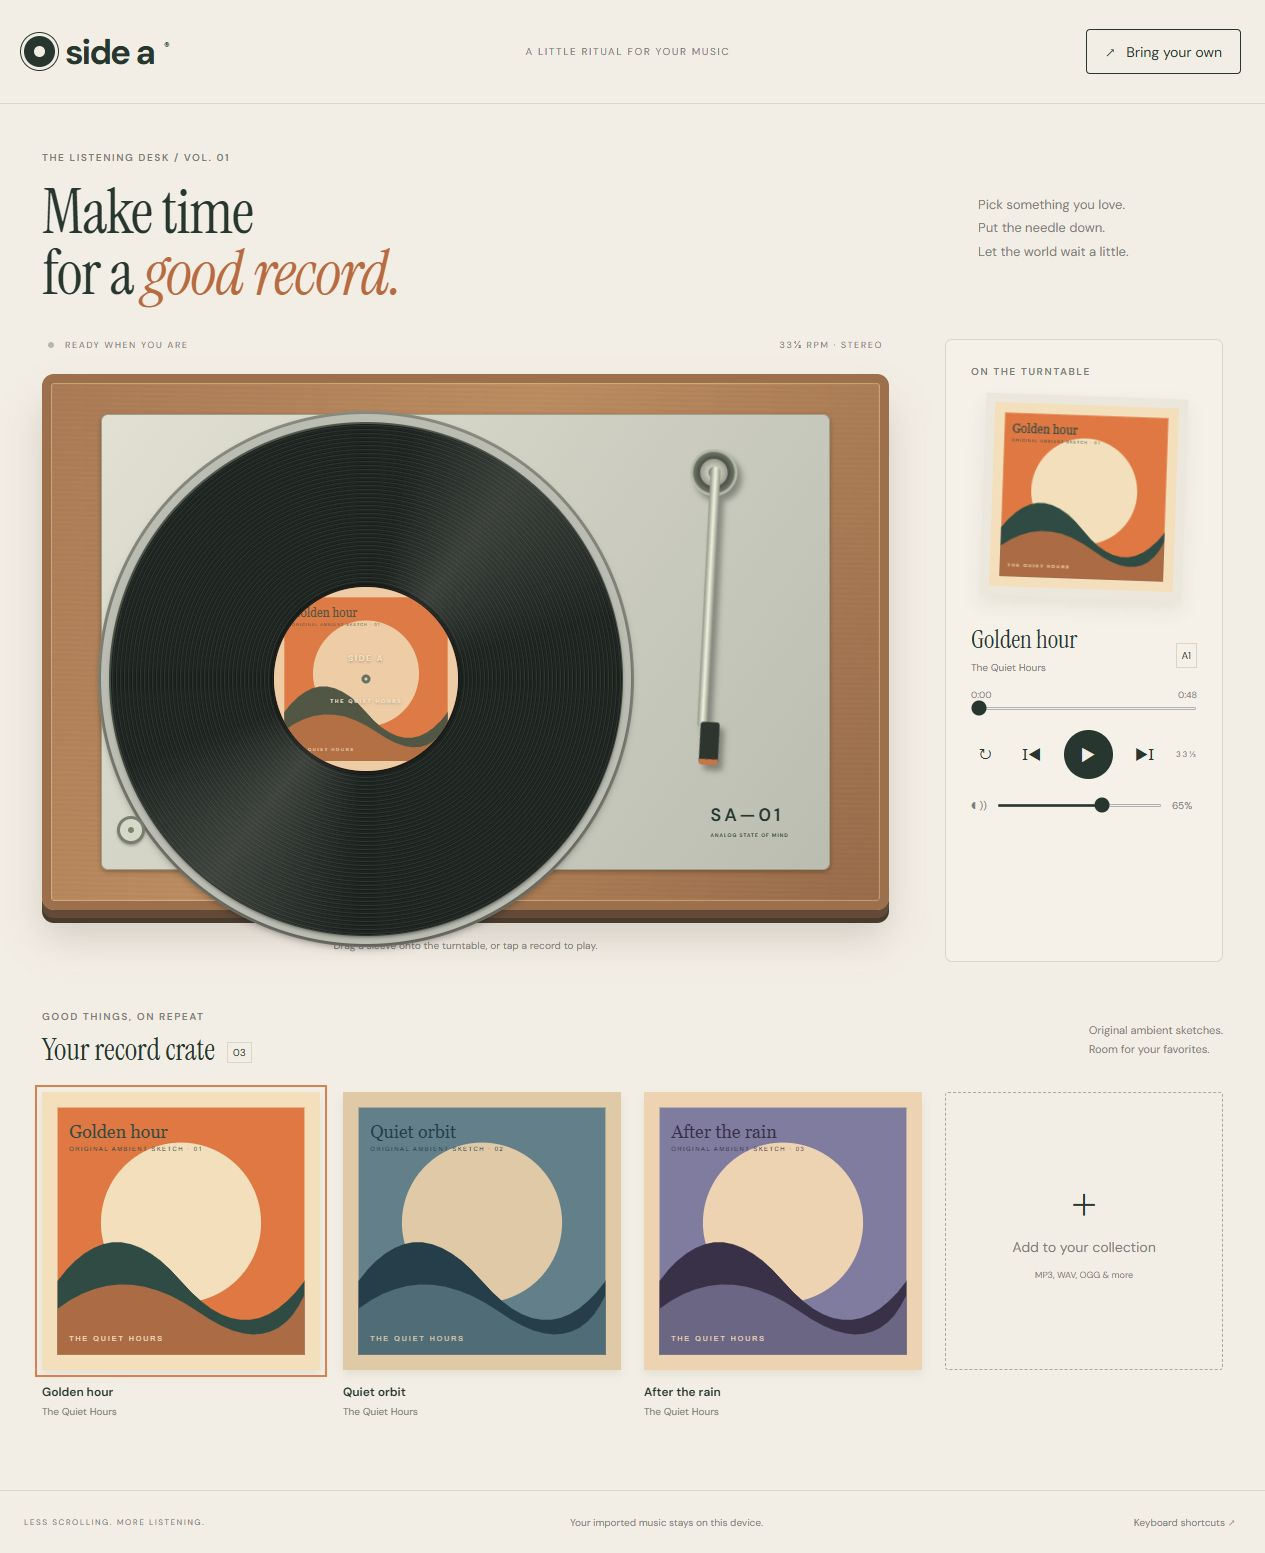
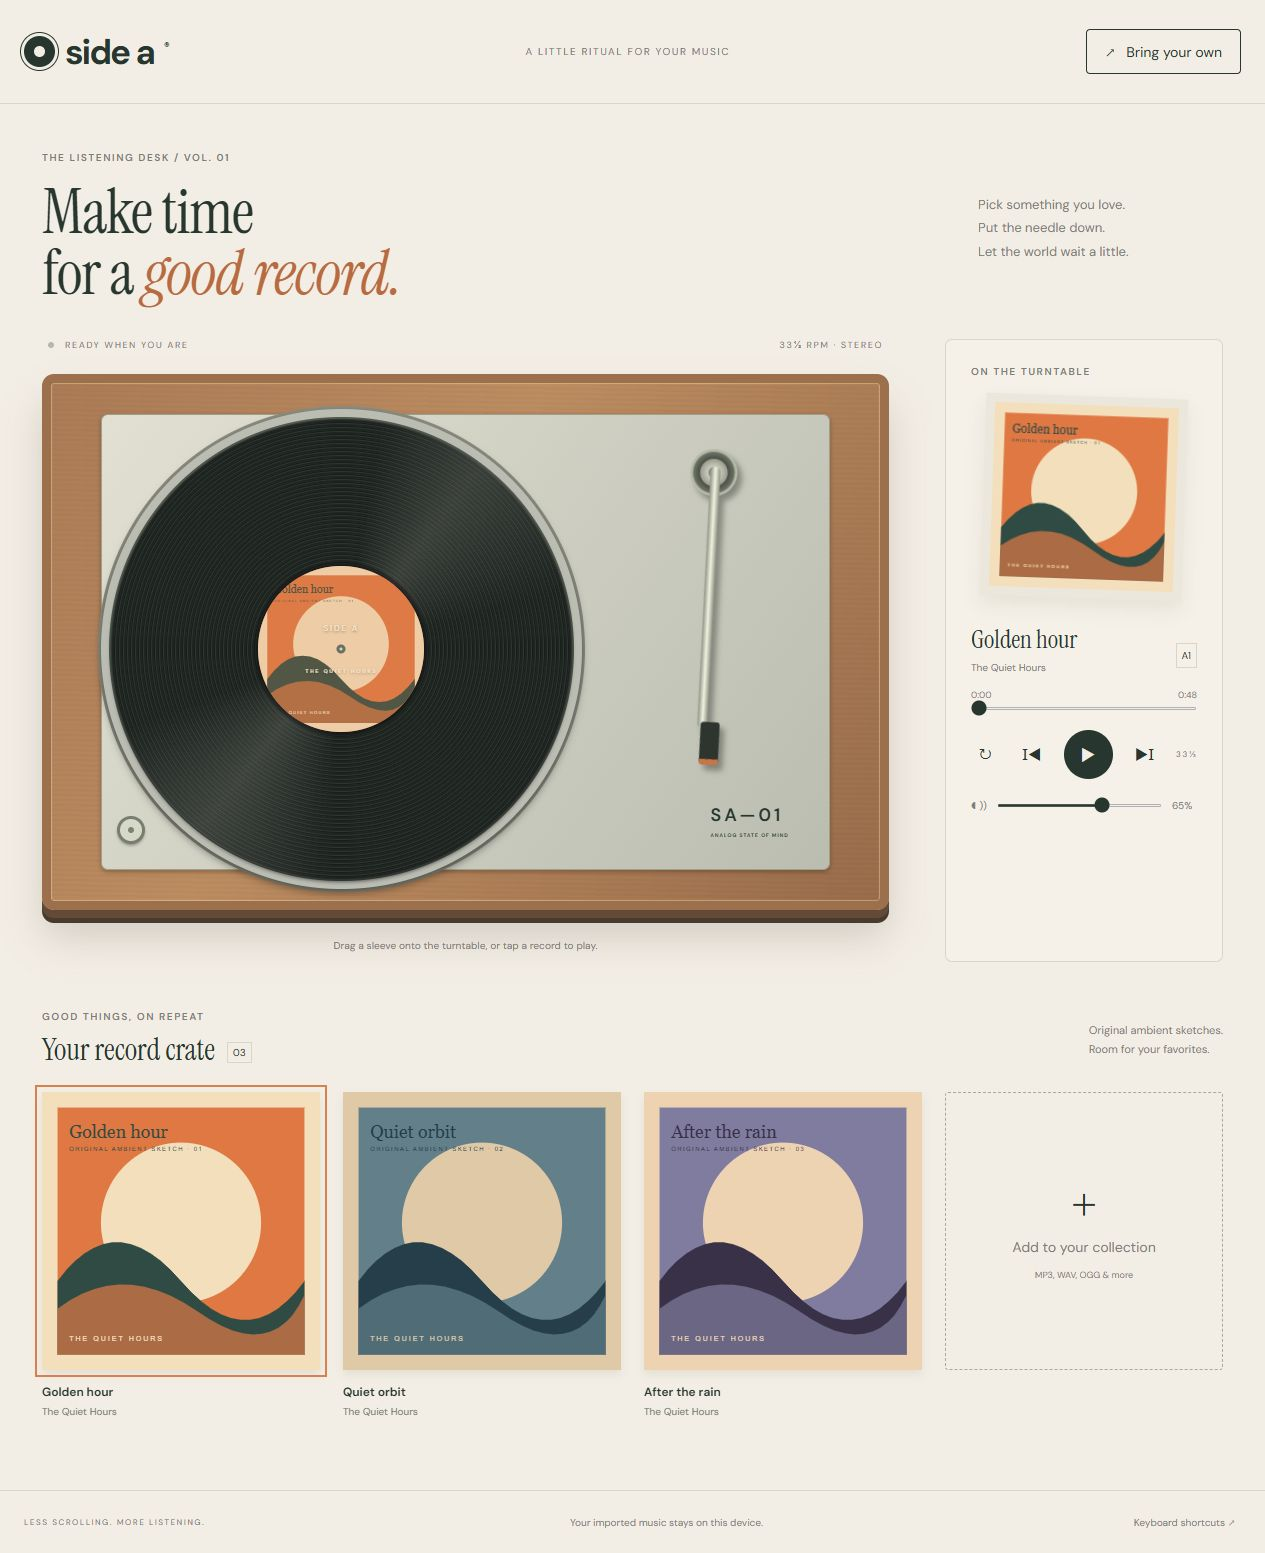
Keep the platter inside the turntable at phone widths

Changed region(s): [[0.0617, 0.2473, 0.4933, 0.6182], [0.185, 0.34, 0.37, 0.4945]]

diff --git a/style.css b/style.css
@@ -1,2 +1,2 @@
 @import url('https://fonts.googleapis.com/css2?family=DM+Sans:wght@400;500;600;700&family=Instrument+Serif:ital@0;1&display=swap');
-:root{--paper:#f3eee5;--ink:#27362e;--muted:#7b8076;--accent:#d57d48;--line:#d8d6c9}*{box-sizing:border-box}body{margin:0;background:var(--paper);color:var(--ink);font:14px 'DM Sans',sans-serif}button,input{font:inherit}button{cursor:pointer}button:focus-visible,a:focus-visible,input:focus-visible{outline:3px solid var(--accent);outline-offset:5px}button{color:inherit}header,main,footer{max-width:1320px;margin:auto}header{height:104px;display:flex;align-items:center;justify-content:space-between;border-bottom:1px solid var(--line);padding:0 24px}.brand{font-size:35px;letter-spacing:-2px;color:var(--ink);text-decoration:none;font-weight:700;display:flex;gap:10px;align-items:center}.brand-dot{font-size:11px;align-self:flex-start;margin-top:10px;letter-spacing:0}.brand-record{height:31px;width:31px;border:10px solid var(--ink);border-radius:50%;outline:1px solid var(--ink);outline-offset:3px}.header-note,.eyebrow,.surface-caption,footer,.hint,.deck-brand small,.speed-label{font-size:10px;letter-spacing:1.6px}.header-note{color:var(--muted)}.button{padding:12px 18px;border:1px solid var(--ink);background:transparent;border-radius:4px}.button:hover{background:var(--ink);color:var(--paper)}main{padding:0 42px}.intro{display:flex;justify-content:space-between;align-items:center;margin:47px 0 34px}.eyebrow{font-weight:600;margin:0 0 18px;color:var(--muted)}h1{font:62px/.99 'Instrument Serif',Georgia,serif;letter-spacing:-1px;margin:0}h1 em{font-weight:400;color:#b86b40}.intro>p{line-height:1.8;font-size:13px;color:var(--muted);margin-right:8%}.listening-layout{display:grid;grid-template-columns:minmax(0,1fr) 278px;gap:56px}.turntable-area{align-self:center;min-width:0}.surface-caption{display:flex;justify-content:space-between;margin:0 6px 23px;color:var(--muted);font-size:9px}.status-light{display:inline-block;width:6px;height:6px;border-radius:50%;background:#b4b9a9;margin-right:7px}body.playing .status-light{background:#d17d4d;box-shadow:0 0 8px #d17d4d}.turntable{position:relative;aspect-ratio:1.58;background:repeating-linear-gradient(1deg,#9d63420b 0 2px,#f7be7608 3px 5px),linear-gradient(125deg,#a87955,#ba8b60 42%,#976a49);border:9px solid #9d704d;border-radius:12px;box-shadow:0 8px 0 #634a37,0 13px 0 #463b2e,0 28px 40px #42392a2e,inset 0 0 1px 1px #f9d9a177}.turntable:before{content:'';position:absolute;inset:6%;background:linear-gradient(125deg,#e1e0d2,#babdb0);border-radius:7px;box-shadow:0 2px 5px #0004;border:1px solid #a09e8c}.platter{position:absolute;width:64%;aspect-ratio:1;top:6%;left:6%;border:8px solid #bbbdb3;border-radius:50%;background:#545a50;box-shadow:0 4px 8px #0006,0 0 0 3px #8b8d81}.record{position:absolute;inset:2px;border-radius:50%;background:repeating-radial-gradient(circle at center,#1d2421 0 1px,#30352f 2px,#171e1a 3px,#252c27 4px);animation:spin 4s linear infinite;animation-play-state:paused;box-shadow:0 2px 4px #0008}.record-shine{position:absolute;inset:0;border-radius:50%;background:conic-gradient(from 10deg,transparent,#f3eee522 27deg,transparent 65deg,transparent 175deg,#f3eee526 208deg,transparent 240deg)}body.playing .record{animation-play-state:running}.record-label{position:absolute;inset:32%;border-radius:50%;overflow:hidden;background:var(--accent);display:grid;place-content:center;text-align:center;box-shadow:0 0 0 4px #1117}.record-label img{position:absolute;inset:0;width:100%;height:100%;object-fit:cover;opacity:.8}.record-label>span,.record-label small{position:relative;z-index:1;color:#f8e8cb;text-shadow:0 1px 3px #0008;font-size:8px;letter-spacing:2px}.record-label small{font-size:5px;margin-top:35px}.spindle{position:absolute;top:50%;left:50%;width:9px;height:9px;border-radius:50%;background:#d4d3bf;border:3px solid #687062;transform:translate(-50%,-50%);z-index:2}.tonearm{position:absolute;top:14%;right:13%;width:14%;height:64%;background:none;border:0;padding:0;z-index:3;transform-origin:51% 7%;transform:rotate(-6deg);transition:transform 1s ease;filter:drop-shadow(4px 6px 3px #0005)}body.playing .tonearm{transform:rotate(27deg)}.pivot{position:absolute;width:47px;height:47px;background:radial-gradient(circle,#888d80 15%,#c9ccbd 18%,#9c9d90 40%,#4c5147 43%,#6a7063 60%,#b6b9a8 65%);top:-6px;left:calc(50% - 23.5px);border-radius:50%}.arm{position:absolute;left:48%;top:12px;width:10px;height:79%;background:linear-gradient(90deg,#8d9385,#f2f1df 50%,#8d9385);border-radius:8px;transform:rotate(9deg);transform-origin:top}.cartridge{position:absolute;bottom:7%;left:14%;height:43px;width:19px;transform:rotate(9deg);background:#2e352e;border-bottom:6px solid #c77545;border-radius:3px}.deck-brand{position:absolute;bottom:12%;right:11%;font-size:18px;font-weight:600;letter-spacing:3px}.deck-brand small{display:block;font-size:5px;letter-spacing:1px;margin-top:5px}.power{position:absolute;bottom:11%;left:8%;width:28px;height:28px;border-radius:50%;border:3px solid #777e70;background:#d6d8c8;box-shadow:0 2px 3px #0005}.power span{position:absolute;inset:8px;background:#79836e;border-radius:50%}body.playing .power span{background:var(--accent)}.hint{text-align:center;letter-spacing:.1px;margin-top:29px;color:var(--muted)}.turntable.drag-over{outline:3px dashed var(--accent);outline-offset:12px}.now-playing{padding:25px;border:1px solid var(--line);border-radius:7px;background:#faf7f040}.sleeve-wrap{padding:9px;background:#ece7dc;box-shadow:0 9px 18px #4a442215;transform:rotate(2deg);margin:8px 12px 25px}.sleeve-wrap img{width:100%;display:block}.track-heading{display:flex;justify-content:space-between;align-items:center}.track-heading h2{font:25px 'Instrument Serif',Georgia,serif;margin:0;overflow-wrap:anywhere}.track-heading p{color:var(--muted);font-size:10px;margin:5px 0 15px}.side-badge{border:1px solid var(--line);padding:5px;font-size:10px}.seek-labels{display:flex;justify-content:space-between;font-size:9px;color:var(--muted);margin-bottom:6px}input[type=range]{accent-color:var(--ink);height:3px;width:100%;cursor:pointer;display:block;margin:5px 0 15px}.transport{display:flex;align-items:center;justify-content:space-between;margin:20px 0}.icon-button,.text-button{border:0;background:none}.icon-button{padding:8px;font-size:16px}.icon-button[aria-pressed=true]{color:var(--accent)}.play{width:49px;height:49px;background:var(--ink);color:var(--paper);border:0;border-radius:50%;font-size:17px;transition:transform .2s}.play:hover{transform:scale(1.07)}.speed-label{font-size:8px;color:var(--muted)}.volume-row{display:flex;align-items:center;gap:10px;color:var(--muted);font-size:10px}.volume-row input{margin:0}.volume-row output{min-width:25px}.section-heading{display:flex;justify-content:space-between;align-items:center;margin:48px 0 23px}.section-heading .eyebrow{margin-bottom:7px}.section-heading h2{font:30px 'Instrument Serif',Georgia,serif;margin:0}.section-heading h2 span{font:10px 'DM Sans';border:1px solid var(--line);padding:3px 5px;vertical-align:middle;margin-left:12px}.section-heading>p{font-size:11px;color:var(--muted);line-height:1.7}.crate{display:grid;grid-template-columns:repeat(4,minmax(0,1fr));gap:23px}.album{position:relative;border:0;background:none;text-align:left;padding:0;min-width:0}.album-art{width:100%;aspect-ratio:1;display:block;box-shadow:0 5px 9px #323b2315;transition:transform .3s}.album:hover .album-art{transform:translateY(-8px) rotate(-2deg)}.album.selected .album-art{outline:2px solid var(--accent);outline-offset:5px}.album-name{display:block;margin-top:14px;font-size:12px;font-weight:600;overflow-wrap:anywhere}.album-meta{display:block;color:var(--muted);font-size:10px;margin-top:5px}.album .playing-tag{position:absolute;top:12px;left:12px;background:var(--paper);font-size:8px;padding:7px 10px;letter-spacing:1px}.add-record{aspect-ratio:1;display:flex;align-items:center;justify-content:center;flex-direction:column;border:1px dashed #a5ac9b;border-radius:3px;background:none;color:var(--muted);gap:13px;align-self:start}.add-record>span{font-size:30px;color:var(--ink)}.add-record small{font-size:9px}.notice{color:#a7492f;min-height:28px;font-size:12px;margin-top:16px}footer{margin-top:28px;padding:23px 24px;display:flex;align-items:center;justify-content:space-between;border-top:1px solid var(--line);color:var(--muted);font-size:8px}footer span:nth-child(2){letter-spacing:0;font-size:10px}.text-button{color:var(--muted);font-size:10px}dialog{border:1px solid var(--line);border-radius:8px;background:var(--paper);color:var(--ink);padding:32px;max-width:440px}dialog::backdrop{background:#17221988}dialog h2{font:36px 'Instrument Serif',Georgia,serif}dialog p{line-height:1.7}kbd{border:1px solid var(--line);padding:3px 7px}@keyframes spin{to{transform:rotate(360deg)}}@media(min-width:1500px){header,main,footer{max-width:1400px}.intro{margin-top:60px}.listening-layout{gap:80px;grid-template-columns:minmax(0,1fr) 300px}}@media(max-width:850px){header{height:82px;margin:0 20px;padding:0}.header-note{display:none}main{padding:0 25px}.intro{margin-top:32px}h1{font-size:50px}.listening-layout{gap:25px;grid-template-columns:minmax(0,1fr) 235px}.now-playing{padding:17px}.intro>p{margin-right:0}.surface-caption{font-size:7px}.crate{gap:15px}.pivot{width:36px;height:36px;left:calc(50% - 18px)}.cartridge{height:27px}.deck-brand{font-size:12px}.deck-brand small{font-size:4px}footer{gap:10px}}@media(max-width:620px){h1{font-size:47px}.intro>p{display:none}.listening-layout{display:flex;flex-direction:column;gap:20px}.turntable-area{width:100%}.now-playing{width:100%;display:block;position:relative;padding-left:125px;min-height:190px}.now-playing>.eyebrow{font-size:8px;margin-bottom:10px}.sleeve-wrap{position:absolute;left:15px;top:44px;width:85px;margin:0;padding:4px}.transport{margin:10px 0}.volume-row{margin-top:10px}.crate{grid-template-columns:repeat(2,minmax(0,1fr));gap:22px}.section-heading{margin-top:33px}.section-heading>p{display:none}footer{flex-wrap:wrap;line-height:1.5}footer>span:first-child{display:none}.hint{font-size:10px}.surface-caption{font-size:8px}.turntable{border-width:6px}.platter{border-width:5px}.deck-brand{font-size:13px}.cartridge{bottom:9%}.button{font-size:11px}}@media(prefers-reduced-motion:reduce){*,*:before,*:after{animation:none!important;transition:none!important;scroll-behavior:auto!important}}
+:root{--paper:#f3eee5;--ink:#27362e;--muted:#7b8076;--accent:#d57d48;--line:#d8d6c9}*{box-sizing:border-box}body{margin:0;background:var(--paper);color:var(--ink);font:14px 'DM Sans',sans-serif}button,input{font:inherit}button{cursor:pointer}button:focus-visible,a:focus-visible,input:focus-visible{outline:3px solid var(--accent);outline-offset:5px}button{color:inherit}header,main,footer{max-width:1320px;margin:auto}header{height:104px;display:flex;align-items:center;justify-content:space-between;border-bottom:1px solid var(--line);padding:0 24px}.brand{font-size:35px;letter-spacing:-2px;color:var(--ink);text-decoration:none;font-weight:700;display:flex;gap:10px;align-items:center}.brand-dot{font-size:11px;align-self:flex-start;margin-top:10px;letter-spacing:0}.brand-record{height:31px;width:31px;border:10px solid var(--ink);border-radius:50%;outline:1px solid var(--ink);outline-offset:3px}.header-note,.eyebrow,.surface-caption,footer,.hint,.deck-brand small,.speed-label{font-size:10px;letter-spacing:1.6px}.header-note{color:var(--muted)}.button{padding:12px 18px;border:1px solid var(--ink);background:transparent;border-radius:4px}.button:hover{background:var(--ink);color:var(--paper)}main{padding:0 42px}.intro{display:flex;justify-content:space-between;align-items:center;margin:47px 0 34px}.eyebrow{font-weight:600;margin:0 0 18px;color:var(--muted)}h1{font:62px/.99 'Instrument Serif',Georgia,serif;letter-spacing:-1px;margin:0}h1 em{font-weight:400;color:#b86b40}.intro>p{line-height:1.8;font-size:13px;color:var(--muted);margin-right:8%}.listening-layout{display:grid;grid-template-columns:minmax(0,1fr) 278px;gap:56px}.turntable-area{align-self:center;min-width:0}.surface-caption{display:flex;justify-content:space-between;margin:0 6px 23px;color:var(--muted);font-size:9px}.status-light{display:inline-block;width:6px;height:6px;border-radius:50%;background:#b4b9a9;margin-right:7px}body.playing .status-light{background:#d17d4d;box-shadow:0 0 8px #d17d4d}.turntable{position:relative;aspect-ratio:1.58;background:repeating-linear-gradient(1deg,#9d63420b 0 2px,#f7be7608 3px 5px),linear-gradient(125deg,#a87955,#ba8b60 42%,#976a49);border:9px solid #9d704d;border-radius:12px;box-shadow:0 8px 0 #634a37,0 13px 0 #463b2e,0 28px 40px #42392a2e,inset 0 0 1px 1px #f9d9a177}.turntable:before{content:'';position:absolute;inset:6%;background:linear-gradient(125deg,#e1e0d2,#babdb0);border-radius:7px;box-shadow:0 2px 5px #0004;border:1px solid #a09e8c}.platter{position:absolute;width:58%;aspect-ratio:1;top:5%;left:6%;border:8px solid #bbbdb3;border-radius:50%;background:#545a50;box-shadow:0 4px 8px #0006,0 0 0 3px #8b8d81}.record{position:absolute;inset:2px;border-radius:50%;background:repeating-radial-gradient(circle at center,#1d2421 0 1px,#30352f 2px,#171e1a 3px,#252c27 4px);animation:spin 4s linear infinite;animation-play-state:paused;box-shadow:0 2px 4px #0008}.record-shine{position:absolute;inset:0;border-radius:50%;background:conic-gradient(from 10deg,transparent,#f3eee522 27deg,transparent 65deg,transparent 175deg,#f3eee526 208deg,transparent 240deg)}body.playing .record{animation-play-state:running}.record-label{position:absolute;inset:32%;border-radius:50%;overflow:hidden;background:var(--accent);display:grid;place-content:center;text-align:center;box-shadow:0 0 0 4px #1117}.record-label img{position:absolute;inset:0;width:100%;height:100%;object-fit:cover;opacity:.8}.record-label>span,.record-label small{position:relative;z-index:1;color:#f8e8cb;text-shadow:0 1px 3px #0008;font-size:8px;letter-spacing:2px}.record-label small{font-size:5px;margin-top:35px}.spindle{position:absolute;top:50%;left:50%;width:9px;height:9px;border-radius:50%;background:#d4d3bf;border:3px solid #687062;transform:translate(-50%,-50%);z-index:2}.tonearm{position:absolute;top:14%;right:13%;width:14%;height:64%;background:none;border:0;padding:0;z-index:3;transform-origin:51% 7%;transform:rotate(-6deg);transition:transform 1s ease;filter:drop-shadow(4px 6px 3px #0005)}body.playing .tonearm{transform:rotate(27deg)}.pivot{position:absolute;width:47px;height:47px;background:radial-gradient(circle,#888d80 15%,#c9ccbd 18%,#9c9d90 40%,#4c5147 43%,#6a7063 60%,#b6b9a8 65%);top:-6px;left:calc(50% - 23.5px);border-radius:50%}.arm{position:absolute;left:48%;top:12px;width:10px;height:79%;background:linear-gradient(90deg,#8d9385,#f2f1df 50%,#8d9385);border-radius:8px;transform:rotate(9deg);transform-origin:top}.cartridge{position:absolute;bottom:7%;left:14%;height:43px;width:19px;transform:rotate(9deg);background:#2e352e;border-bottom:6px solid #c77545;border-radius:3px}.deck-brand{position:absolute;bottom:12%;right:11%;font-size:18px;font-weight:600;letter-spacing:3px}.deck-brand small{display:block;font-size:5px;letter-spacing:1px;margin-top:5px}.power{position:absolute;bottom:11%;left:8%;width:28px;height:28px;border-radius:50%;border:3px solid #777e70;background:#d6d8c8;box-shadow:0 2px 3px #0005}.power span{position:absolute;inset:8px;background:#79836e;border-radius:50%}body.playing .power span{background:var(--accent)}.hint{text-align:center;letter-spacing:.1px;margin-top:29px;color:var(--muted)}.turntable.drag-over{outline:3px dashed var(--accent);outline-offset:12px}.now-playing{padding:25px;border:1px solid var(--line);border-radius:7px;background:#faf7f040}.sleeve-wrap{padding:9px;background:#ece7dc;box-shadow:0 9px 18px #4a442215;transform:rotate(2deg);margin:8px 12px 25px}.sleeve-wrap img{width:100%;display:block}.track-heading{display:flex;justify-content:space-between;align-items:center}.track-heading h2{font:25px 'Instrument Serif',Georgia,serif;margin:0;overflow-wrap:anywhere}.track-heading p{color:var(--muted);font-size:10px;margin:5px 0 15px}.side-badge{border:1px solid var(--line);padding:5px;font-size:10px}.seek-labels{display:flex;justify-content:space-between;font-size:9px;color:var(--muted);margin-bottom:6px}input[type=range]{accent-color:var(--ink);height:3px;width:100%;cursor:pointer;display:block;margin:5px 0 15px}.transport{display:flex;align-items:center;justify-content:space-between;margin:20px 0}.icon-button,.text-button{border:0;background:none}.icon-button{padding:8px;font-size:16px}.icon-button[aria-pressed=true]{color:var(--accent)}.play{width:49px;height:49px;background:var(--ink);color:var(--paper);border:0;border-radius:50%;font-size:17px;transition:transform .2s}.play:hover{transform:scale(1.07)}.speed-label{font-size:8px;color:var(--muted)}.volume-row{display:flex;align-items:center;gap:10px;color:var(--muted);font-size:10px}.volume-row input{margin:0}.volume-row output{min-width:25px}.section-heading{display:flex;justify-content:space-between;align-items:center;margin:48px 0 23px}.section-heading .eyebrow{margin-bottom:7px}.section-heading h2{font:30px 'Instrument Serif',Georgia,serif;margin:0}.section-heading h2 span{font:10px 'DM Sans';border:1px solid var(--line);padding:3px 5px;vertical-align:middle;margin-left:12px}.section-heading>p{font-size:11px;color:var(--muted);line-height:1.7}.crate{display:grid;grid-template-columns:repeat(4,minmax(0,1fr));gap:23px}.album{position:relative;border:0;background:none;text-align:left;padding:0;min-width:0}.album-art{width:100%;aspect-ratio:1;display:block;box-shadow:0 5px 9px #323b2315;transition:transform .3s}.album:hover .album-art{transform:translateY(-8px) rotate(-2deg)}.album.selected .album-art{outline:2px solid var(--accent);outline-offset:5px}.album-name{display:block;margin-top:14px;font-size:12px;font-weight:600;overflow-wrap:anywhere}.album-meta{display:block;color:var(--muted);font-size:10px;margin-top:5px}.album .playing-tag{position:absolute;top:12px;left:12px;background:var(--paper);font-size:8px;padding:7px 10px;letter-spacing:1px}.add-record{aspect-ratio:1;display:flex;align-items:center;justify-content:center;flex-direction:column;border:1px dashed #a5ac9b;border-radius:3px;background:none;color:var(--muted);gap:13px;align-self:start}.add-record>span{font-size:30px;color:var(--ink)}.add-record small{font-size:9px}.notice{color:#a7492f;min-height:28px;font-size:12px;margin-top:16px}footer{margin-top:28px;padding:23px 24px;display:flex;align-items:center;justify-content:space-between;border-top:1px solid var(--line);color:var(--muted);font-size:8px}footer span:nth-child(2){letter-spacing:0;font-size:10px}.text-button{color:var(--muted);font-size:10px}dialog{border:1px solid var(--line);border-radius:8px;background:var(--paper);color:var(--ink);padding:32px;max-width:440px}dialog::backdrop{background:#17221988}dialog h2{font:36px 'Instrument Serif',Georgia,serif}dialog p{line-height:1.7}kbd{border:1px solid var(--line);padding:3px 7px}@keyframes spin{to{transform:rotate(360deg)}}@media(min-width:1500px){header,main,footer{max-width:1400px}.intro{margin-top:60px}.listening-layout{gap:80px;grid-template-columns:minmax(0,1fr) 300px}}@media(max-width:850px){header{height:82px;margin:0 20px;padding:0}.header-note{display:none}main{padding:0 25px}.intro{margin-top:32px}h1{font-size:50px}.listening-layout{gap:25px;grid-template-columns:minmax(0,1fr) 235px}.now-playing{padding:17px}.intro>p{margin-right:0}.surface-caption{font-size:7px}.crate{gap:15px}.pivot{width:36px;height:36px;left:calc(50% - 18px)}.cartridge{height:27px}.deck-brand{font-size:12px}.deck-brand small{font-size:4px}footer{gap:10px}}@media(max-width:620px){h1{font-size:47px}.intro>p{display:none}.listening-layout{display:flex;flex-direction:column;gap:20px}.turntable-area{width:100%}.now-playing{width:100%;display:block;position:relative;padding-left:125px;min-height:190px}.now-playing>.eyebrow{font-size:8px;margin-bottom:10px}.sleeve-wrap{position:absolute;left:15px;top:44px;width:85px;margin:0;padding:4px}.transport{margin:10px 0}.volume-row{margin-top:10px}.crate{grid-template-columns:repeat(2,minmax(0,1fr));gap:22px}.section-heading{margin-top:33px}.section-heading>p{display:none}footer{flex-wrap:wrap;line-height:1.5}footer>span:first-child{display:none}.hint{font-size:10px}.surface-caption{font-size:8px}.turntable{border-width:6px}.platter{border-width:5px}.deck-brand{font-size:13px}.cartridge{bottom:9%}.button{font-size:11px}}@media(prefers-reduced-motion:reduce){*,*:before,*:after{animation:none!important;transition:none!important;scroll-behavior:auto!important}}
